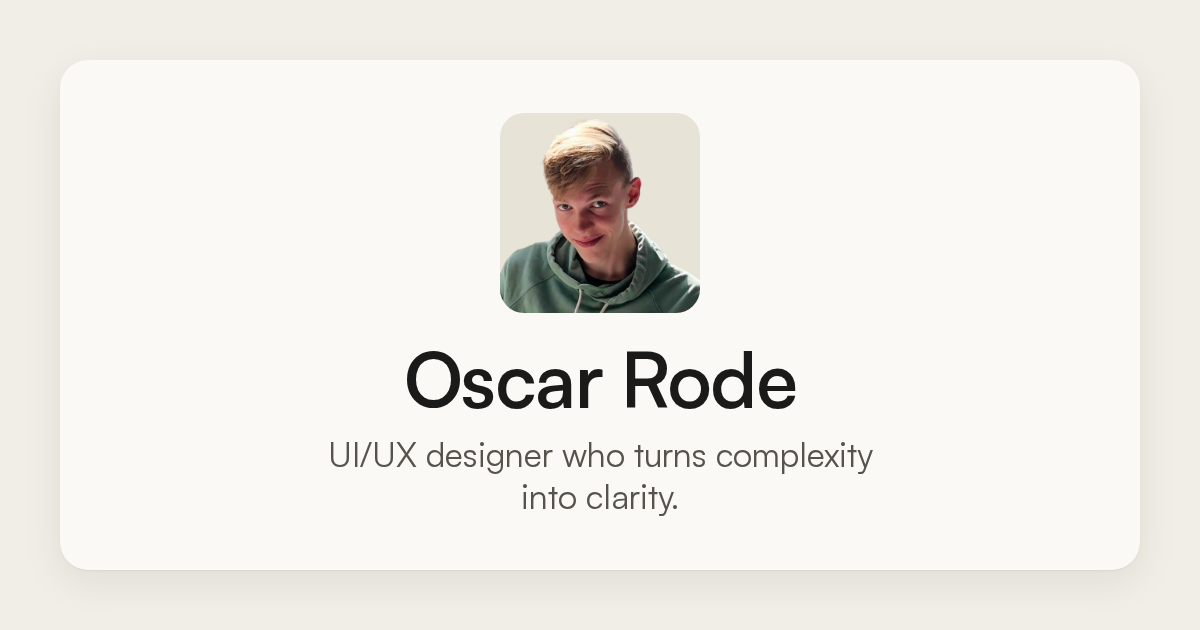
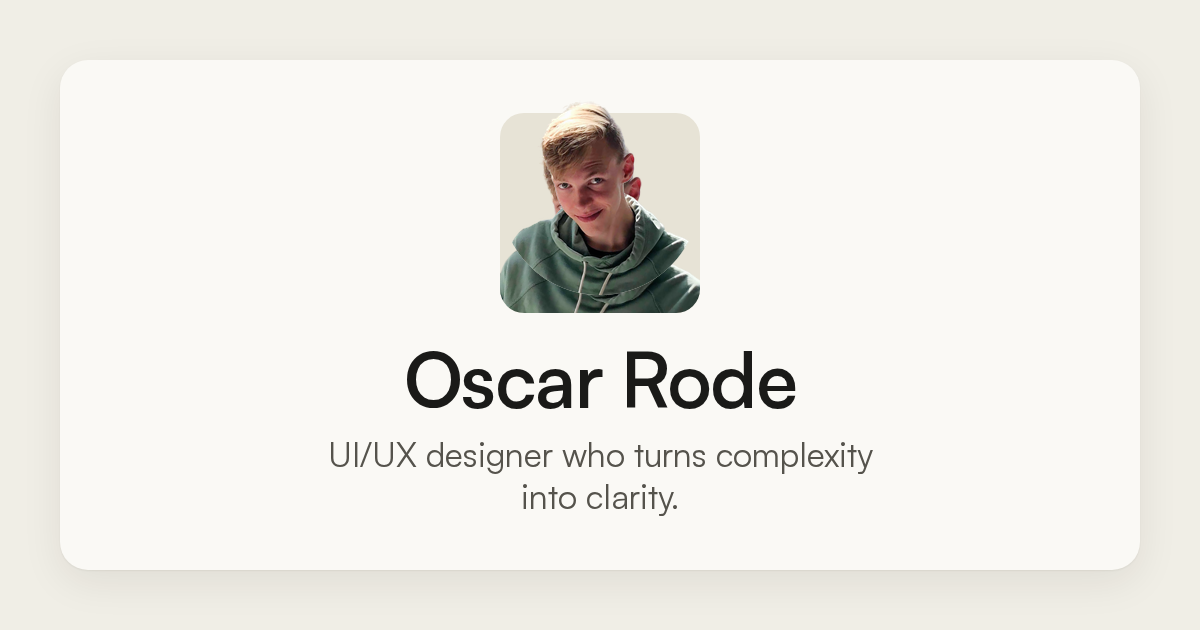
Fix blurry share preview and update headshot to 1024px
- Regenerate home-og.png (1200×630) with new 1024px circular headshot
  downscaled with Lanczos filter (previously used 256px source)
- Update site headshot to optimized 320px version (2x retina for 160px display)
- Fix layout.tsx meta tags: correct profile picture dimensions to 320×320
  (was incorrectly declared as 800×800 for a 256×256 file)
- Verified: home page OG image correctly declared as 1200×630
- Verified: case study OG images correctly declared as 1200×630
- No layout shift, circle rendering preserved

Changed region(s): [[0.4317, 0.1508, 0.5858, 0.4825]]

diff --git a/src/app/layout.tsx b/src/app/layout.tsx
@@ -50,8 +50,8 @@ export const metadata: Metadata = {
     images: [
       {
         url: "/oscar-rode-profile-picture.png",
-        width: 800,
-        height: 800,
+        width: 320,
+        height: 320,
         alt: "Oscar Rode",
       },
     ],
